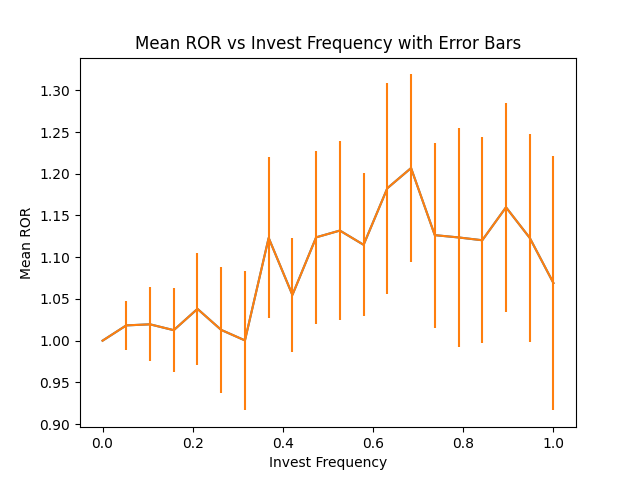
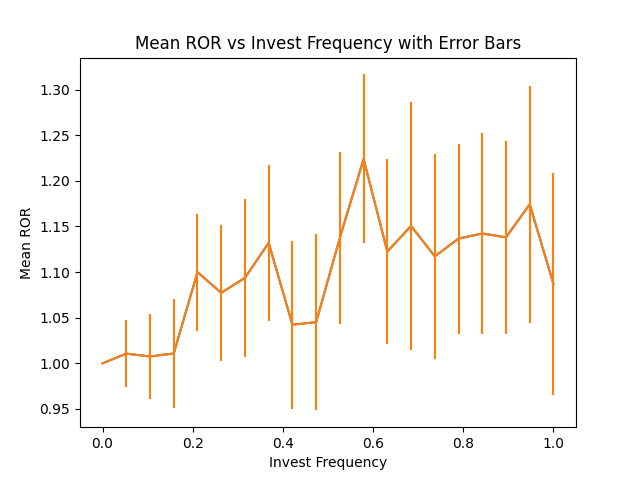
reconstruct

diff --git a/ror.py b/ror.py
@@ -5,8 +5,7 @@ import matplotlib.pyplot as plt
 # Define function to generate RORs
 def gen_RORs(day_return_data, ror_num=100, invest_level=0.5, invest_freq=1, hold=1, trans_cost=0.001):
     # Get period returns
-    ones = np.ones(int(np.ceil(len(day_return_data) / hold) * hold - len(day_return_data)))
-    period_returns = np.append(day_return_data, ones).reshape(-1, hold).prod(axis=1)
+    period_returns = np.prod(np.append(day_return_data, np.ones(-len(day_return_data) % hold)).reshape(-1, hold), axis=1)
     # Define function to generate ROR
     def gen_ROR():
         # Get focusing periods

diff --git a/README.md b/README.md
@@ -2,20 +2,23 @@
 
 ## 背景问题：择时靠谱吗
 
-1. 观察沪深300指数、贵州茅台、梦洁股份k线走势，分别记录并计算它们近十年的上涨总天数和下降总天数，分别计算出它们上涨和下跌总天数各占这十年总观察天数的百分比，从而得到抓取到上涨时机的概率和抓取到下跌时机的概率。
-2. 情况一：保持不动持有上述三只十年。分别计算这三只的十年总收益率。
-3. 情况二：择时恰好择到了全部上涨期。分别计算在上述三只剔除了下跌天数后，把剩下的上涨天数的K线拼接起来的除开下跌时期的十年总收益率。
-4. 情况三：择时错过了25个涨幅最大的时间段。分别计算上述三只剔除了25个涨幅最大的时间段后的十年总收益率。
-5. 比较三种情况的结果，它们有何差距？
-6. 在进行了上述研究计算后，择时交易还值得选择吗？如何使择时更加准确以获得较大收益？
+假设投资者具有不同投资水平（预测明日股票涨跌的准确率），投资参与率（十年中参与投资的天数占比），每次投资的持有时间（短期还是长期投资）。模拟并分析10年中，不同投资者对沪深300指数、贵州茅台、梦洁股份的投资收益情况。探究对他们来说，择时交易是否是好的交易策略。
 
 ## ROR生成函数
 ```
 ROR生成函数（生成投资者数量，每日收益数据，交易水平 = 0.5，交易频率 = 1，持有期 = 1天，交易成本 = 0.001）
-    按照交易频率（即交易空闲），计算投资者在哪些周期会进行盯盘、参与交易
-    投资者每个周期猜对涨跌的概率由交易水平决定，当他认为下一周期会涨时，就会买入并持有一个持有期
-    考虑交易成本，计算这个投资者十年的累计收益率
-    生成相同参数的100个投资者，储存到RORs向量里并返回
 
 通过ROR生成函数返回的RORs向量来研究投资收益的种种特性
 ```
+
+# 10 Years Investment Simulation of CSI300, etc.
+
+## Background Question: Is Market Timing Reliable?
+
+Assuming investors have different investment levels (accuracy in predicting the daily stock price movements), participation rates (percentage of days they engage in investing over ten years), and holding periods (short-term or long-term investment). Simulate and analyze the investment returns of different investors over a ten-year period for CSI300, Guizhou Moutai, and Mengjie Stock. Investigate whether market timing is a viable trading strategy for them.
+
+## ROR Generation Function
+```
+ROR Generation Function (generate number of investors = 100, invest level = 0.5, invest frequency = 1, holding period = 1 day, trading cost = 0.001)
+```
+Use the RORs vector returned by the ROR Generation Function to examine characteristics of investment returns.
